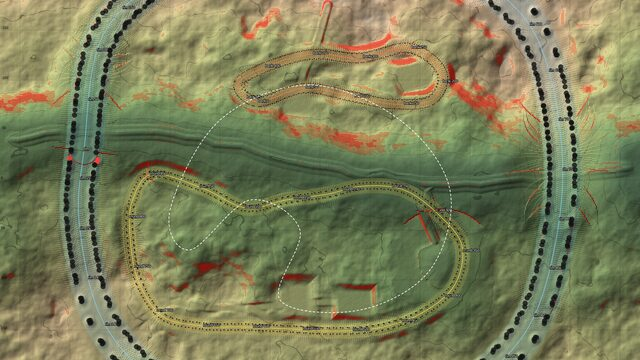
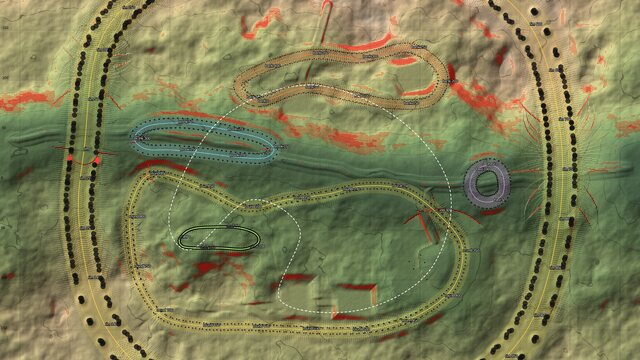
machine-wilds: samples page cards, registry and brief for the shelled kinds; the map with the new ways
Claude-Session: https://claude.ai/code/session_01LWivNf8Y6UtuVJbT9XD7sv

diff --git a/docs/index.html b/docs/index.html
@@ -748,8 +748,8 @@
   <div class="body">
     <h3><a href="machine-wilds/">machine-wilds</a></h3>
     <p class="tagline">장소 하나를 주면(숲 골짜기 · 물에 잠긴 채석장 · 버려진 항구), 폐허가 숲에 덮인 땅을 거대한 보행 기계들이 안개 속에서 걸어 다니는 3D 세계를 브라우저에서 걸을 수 있게 만듭니다. scanned-realm 엔진(Poly Haven CC0 스캔 재질 · 모델 · 식생)에 높낮이가 있는 지형, 코드로 부품 하나하나 만드는 기계(관절마다 드럼 · 포크 · 핀, 고정점을 스크립트가 찾는 유압 실린더), 지형 위에서 계획하는 걸음을 더했습니다. 발은 내려놓는 자리의 실제 높이와 경사에 닿고, 디딘 발은 움직이지 않으며, 다리마다 자기 땅에 맞춰 따로 굽고, 몸통의 높이와 기울기는 디딘 발에서 나옵니다. 기계는 녹슬고 이끼 낀 산업용 유압에 일부만 흰 세라믹 외장을 둘렀고 배관 · 호스 · 리벳 · 점검 해치 · 사다리 같은 부속품이 붙어 있으며, 날개를 치고 활공하는 기계 새도 만듭니다. 걷는 사람에게도 몸이 있습니다. 주제에 맞춰 설계한 2족 보행 기계로, 키 입력을 따라 지형 위에 발을 딛고 걷고 달리고 뛰며, 1인칭 · 3인칭 · 탑뷰로 바꿔 보고 줌할 수 있습니다. 기계는 멈춰 서서 숨 쉬고, 출발 전에 힘을 모으고, 가까이 가면 머리를 돌리며, 등불은 안개 속 빛기둥이 됩니다. 기계가 다니는 길은 땅에 닳아 있고 발자국이 눌려 있습니다. 렌더하기 전에 브라우저 없이 몇 초 만에 다리 도달 · 역관절 · 발 미끄러짐 · 실린더 · 몸통 가속 · 대기 동작을 숫자로 검사하고, 종류마다 캐스트 시트를 냅니다. 주제마다 장소와 기계를 새로 설계합니다.</p>
-    <p class="stats">예제 「쇠울림 골짜기」 · 640 m 골짜기 · 기계 다섯 종류 열두 대(걷는 것 여섯, 나는 것 다섯, 플레이어의 2족 기계 하나) + 잔해 · 스캔 재질 11종 · 모델 19종 · 스타터 「Lantern Quarry」 · 스캔 101 MB(예제) · 28 MB(스타터)는 저장소 밖, Poly Haven 서버에서 도착</p>
-    <ul class="tags"><li>WebGL 2 디퍼드 · 스캔 에셋</li><li>지형에 맞춘 다리 IK</li><li>부품 하나하나 코드로 · 유압 실린더</li><li>안개 속 빛기둥</li><li>브라우저 없이 몸 검사</li><li>날아다니는 기계 새</li><li>2족 플레이어 기계 · 1인칭/3인칭/탑뷰</li><li>걸어 다니는 세계</li></ul>
+    <p class="stats">예제 「쇠울림 골짜기」 · 640 m 골짜기 · 기계 여덟 종류 열아홉 대(걷는 것 열셋 — 등딱지 자라 · 집게 달린 가재 · 공벌레 포함, 나는 것 다섯, 플레이어의 2족 기계 하나) + 잔해 · 스캔 재질 11종 · 모델 19종 · 스타터 「Lantern Quarry」 · 스캔 101 MB(예제) · 28 MB(스타터)는 저장소 밖, Poly Haven 서버에서 도착</p>
+    <ul class="tags"><li>WebGL 2 디퍼드 · 스캔 에셋</li><li>지형에 맞춘 다리 IK</li><li>부품 하나하나 코드로 · 유압 실린더</li><li>안개 속 빛기둥</li><li>브라우저 없이 몸 검사</li><li>날아다니는 기계 새</li><li>등딱지 · 집게 · 마디 꼬리 기계</li><li>2족 플레이어 기계 · 1인칭/3인칭/탑뷰</li><li>걸어 다니는 세계</li></ul>
     <p class="from">만든 출처: <a href="https://polyhaven.com" target="_blank" rel="noopener">Poly Haven — 스캔 재질과 모델의 출처 (CC0, 저장소에는 넣지 않고 장소마다 받아 옴). 스킬 자체는 이 레포의 scanned-realm · walking-colossus · machine-build-reel을 바탕으로 만듦</a></p>
     <div class="btns"><a class="btn p" href="machine-wilds/">샘플 페이지</a><a class="btn" href="https://github.com/jungrok5/motion-skills/blob/main/machine-wilds/SKILL.md">SKILL.md</a><a class="btn" href="https://github.com/jungrok5/motion-skills/tree/main/machine-wilds">폴더</a></div>
   </div>

diff --git a/machine-wilds/examples/iron-valley/BRIEF.md b/machine-wilds/examples/iron-valley/BRIEF.md
@@ -8,7 +8,7 @@ yard of containers, a power line along the north ridge. The road was cut when th
 walked through one span of the viaduct. Spruce and pine closed over everything else.
 
 ## The land
-640 m of editable land (the walk is 222 m in radius) · highest 47 m (the north ridge), lowest −3 m (the brook in the
+640 m of editable land (the walk is 262 m in radius: out past the rim way) · highest 47 m (the north ridge), lowest −3 m (the brook in the
 east) · steep: the north bank (20–30°, crags), the bench edges · level: the valley floor, the bog round the tarn.
 | place | x, z | what |
 |---|---|---|
@@ -49,8 +49,10 @@ east) · steep: the north bank (20–30°, crags), the bench edges · level: the
   down to the fallen crane and on the road, and stands above it on the viaduct.
 - **bank** (porters, 460 m, 13 m wide): a loop on the north shelf past the yard, crossing the old road north of the
   viaduct's abutment.
-- **rim** (the relic, 1500 m, 38 m wide): round the whole valley at 240 m; from the walk it is lit windows and two
-  eyes in the mist, and, where it passes the way in, legs between the trees.
+- **rim** (the relic, 1500 m, 38 m wide): round the whole valley at 240 m; from the valley it is lit windows and two
+  eyes in the mist, and, where it passes the way in, legs between the trees. The walk reaches it (262 m): the walker
+  can stand on the rim way and let it come over — the deck passes 28 m overhead between two rows of legs — or go in
+  under it where it stops to call on the southern rise (100, −226).
 - **brook** (the crayfish, 300 m, 13 m wide): the valley floor west of the viaduct, down one side of the brook and back
   up the other, through the water twice; its east end comes within forty metres of the fallen crane, so the walker
   who goes down the path to the wreck meets two red eyes in the mist beyond it.
